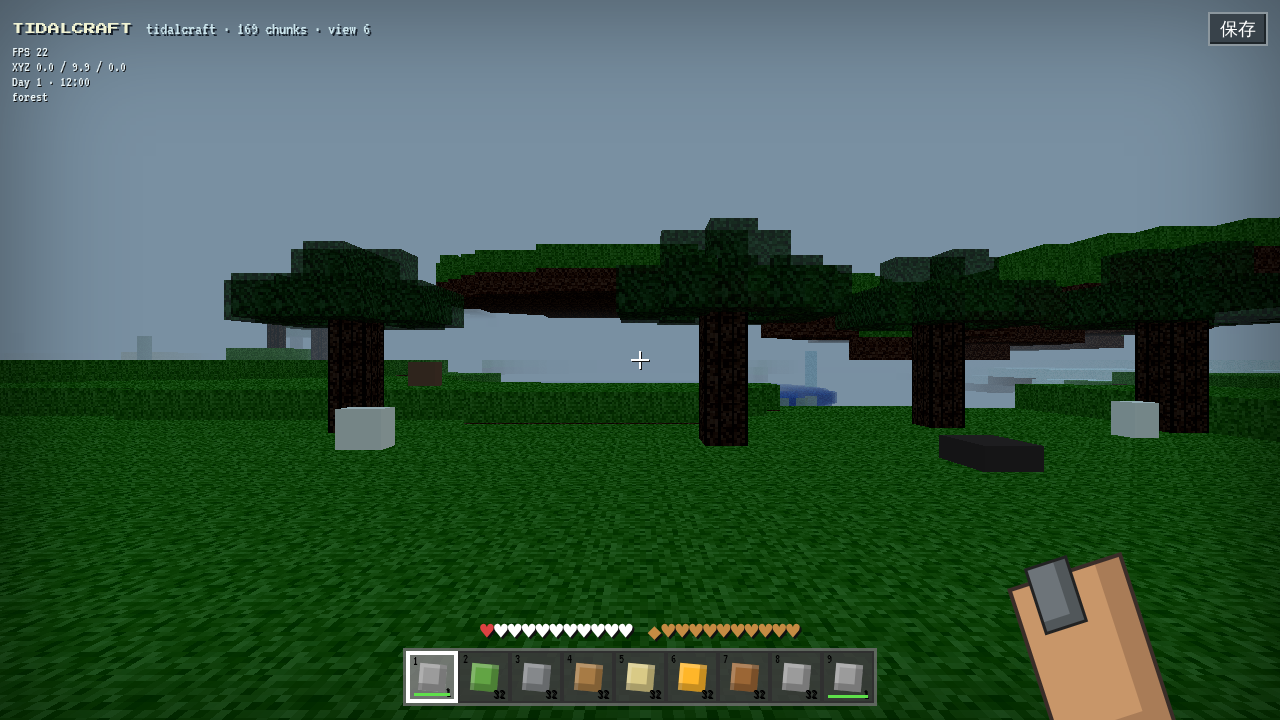
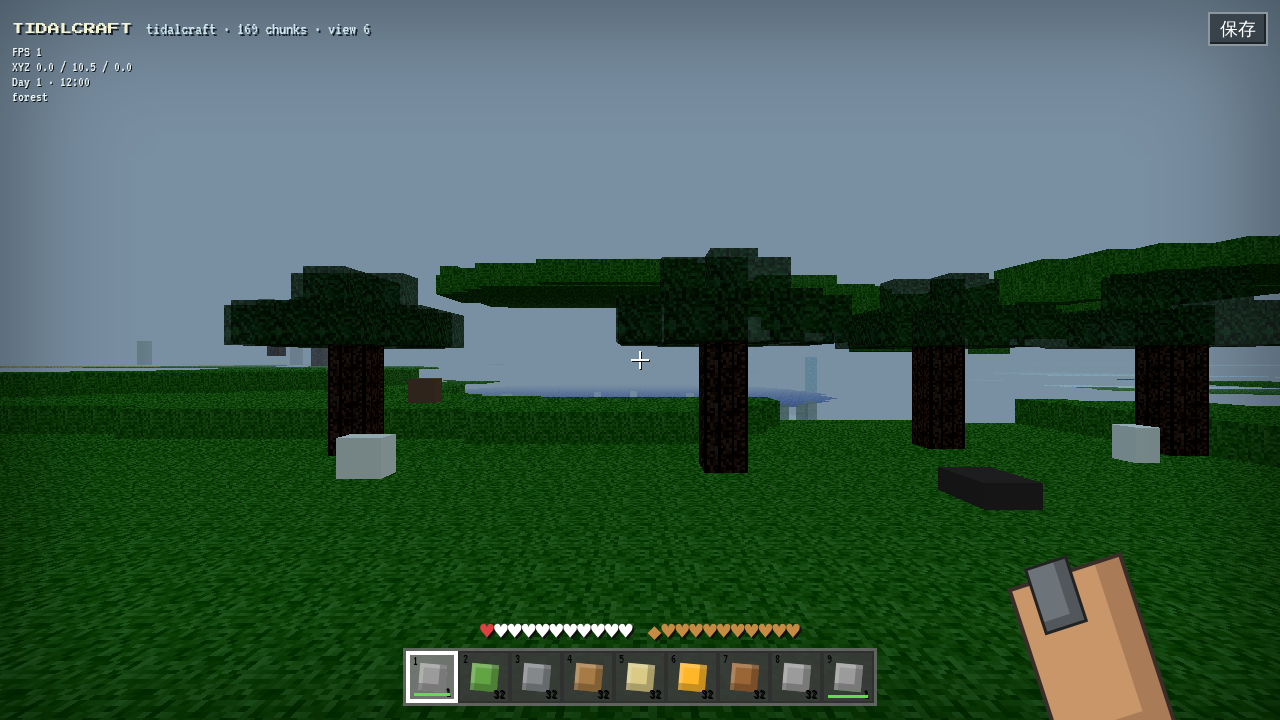
TES-5: verify inventory and persistent world state

diff --git a/src/main.js b/src/main.js
@@ -54,6 +54,10 @@ const dropsGroup = new THREE.Group();
 const projectileGroup = new THREE.Group();
 scene.add(worldGroup, entityGroup, dropsGroup, projectileGroup);
 const boxGeo = new THREE.BoxGeometry(1, 1, 1);
+const topGeo = new THREE.PlaneGeometry(1, 1);
+topGeo.rotateX(-Math.PI / 2);
+const baseGeo = new THREE.PlaneGeometry(224, 224);
+baseGeo.rotateX(-Math.PI / 2);
 const raycaster = new THREE.Raycaster();
 raycaster.far = 6;
 const center = new THREE.Vector2(0, 0);
@@ -84,6 +88,9 @@ let modifications = new Map(),
   chunks = new Set(),
   chunkCenter = "",
   difficulty = "normal";
+let stations = new Map(),
+  restoredEntities = null,
+  carried = null;
 const VIEW_DISTANCE = 6;
 let player = {
   x: 0,
@@ -164,25 +171,79 @@ function buildWorld() {
   chunks.clear();
   const px = Math.floor(player.x / 16),
     pz = Math.floor(player.z / 16),
-    byType = {};
+    byType = {},
+    surfaces = {};
   chunkCenter = `${px},${pz}`;
+  const base = new THREE.Mesh(baseGeo, materials.get("stone"));
+  base.position.set(player.x, -0.49, player.z);
+  worldGroup.add(base);
   for (let cz = pz - VIEW_DISTANCE; cz <= pz + VIEW_DISTANCE; cz++)
     for (let cx = px - VIEW_DISTANCE; cx <= px + VIEW_DISTANCE; cx++) {
       chunks.add(`${cx},${cz}`);
       for (let z = cz * 16; z < cz * 16 + 16; z++)
         for (let x = cx * 16; x < cx * 16 + 16; x++) {
           const h = terrainHeight(x, z, seed);
-          for (let y = Math.max(0, h - 1); y <= h; y++) {
-            const id = actualBlock(x, y, z);
-            if (id) (byType[id] ??= []).push({ x, y, z });
+          let surfaceY = h,
+            id = actualBlock(x, surfaceY, z);
+          while (!id && surfaceY > h - 5) id = actualBlock(x, --surfaceY, z);
+          const nearPlayer =
+            Math.abs(x - player.x) <= 32 && Math.abs(z - player.z) <= 32;
+          if (id) {
+            if (nearPlayer) (byType[id] ??= []).push({ x, y: surfaceY, z });
+            else
+              (surfaces[id] ??= []).push({
+                x,
+                y: surfaceY + 0.501,
+                z,
+                blockY: surfaceY,
+              });
           }
           if (h < SEA_LEVEL) {
-            const id = actualBlock(x, SEA_LEVEL, z);
-            if (id) (byType[id] ??= []).push({ x, y: SEA_LEVEL, z });
+            const water = actualBlock(x, SEA_LEVEL, z);
+            if (water) {
+              if (nearPlayer)
+                (byType[water] ??= []).push({ x, y: SEA_LEVEL, z });
+              else
+                (surfaces[water] ??= []).push({
+                  x,
+                  y: SEA_LEVEL + 0.501,
+                  z,
+                  blockY: SEA_LEVEL,
+                });
+            }
           }
           addFeature(byType, x, h, z);
         }
     }
+  for (const [key, id] of modifications) {
+    if (!id) continue;
+    const [x, y, z] = key.split(",").map(Number);
+    if (
+      Math.abs(Math.floor(x / 16) - px) <= VIEW_DISTANCE &&
+      Math.abs(Math.floor(z / 16) - pz) <= VIEW_DISTANCE
+    )
+      (byType[id] ??= []).push({ x, y, z });
+  }
+  for (const [id, poses] of Object.entries(surfaces)) {
+    const mesh = new THREE.InstancedMesh(
+        topGeo,
+        materials.get(id),
+        poses.length,
+      ),
+      o = new THREE.Object3D();
+    poses.forEach((p, i) => {
+      o.position.set(p.x, p.y, p.z);
+      o.updateMatrix();
+      mesh.setMatrixAt(i, o.matrix);
+    });
+    mesh.userData = {
+      id,
+      poses: poses.map((p) => ({ x: p.x, y: p.blockY, z: p.z })),
+    };
+    mesh.instanceMatrix.needsUpdate = true;
+    worldGroup.add(mesh);
+    blockMeshes.push(mesh);
+  }
   for (const [id, poses] of Object.entries(byType)) {
     const mesh = new THREE.InstancedMesh(
       boxGeo,
@@ -309,6 +370,13 @@ function spawnEntities() {
       phase: i,
       speed: 0.4 + noise2(i, 2, seed) * 0.5,
     });
+  }
+  if (restoredEntities) {
+    restoredEntities.slice(0, entities.length).forEach((saved, i) => {
+      entities[i].mesh.position.set(saved.x, saved.y, saved.z);
+      entities[i].hp = saved.hp;
+    });
+    restoredEntities = null;
   }
 }
 function updateEntities(dt) {
@@ -544,20 +612,61 @@ function updateProjectiles(dt) {
 }
 
 function target() {
-  raycaster.setFromCamera(center, camera);
-  const hits = raycaster.intersectObjects(
-    [...blockMeshes, ...entityGroup.children],
-    false,
-  );
-  return hits[0];
+  const direction = new THREE.Vector3();
+  camera.getWorldDirection(direction);
+  let blockHit = null,
+    previous = null;
+  for (let distance = 0.15; distance <= 6; distance += 0.12) {
+    const point = camera.position.clone().addScaledVector(direction, distance),
+      position = {
+        x: Math.floor(point.x + 0.5),
+        y: Math.floor(point.y + 0.5),
+        z: Math.floor(point.z + 0.5),
+      },
+      id = actualBlock(position.x, position.y, position.z);
+    if (id && !BLOCKS[id]?.liquid) {
+      const normal = previous
+        ? new THREE.Vector3(
+            previous.x - position.x,
+            previous.y - position.y,
+            previous.z - position.z,
+          )
+        : direction.clone().negate().round();
+      blockHit = {
+        object: { userData: { poses: [position] } },
+        instanceId: 0,
+        point,
+        face: { normal },
+        distance,
+      };
+      break;
+    }
+    previous = position;
+  }
+  let entityHit = null;
+  for (const entity of entities) {
+    const relative = entity.mesh.position.clone().sub(camera.position),
+      distance = relative.dot(direction);
+    if (distance <= 0 || distance > 6 || distance >= (blockHit?.distance ?? 7))
+      continue;
+    const perpendicular = relative
+      .clone()
+      .sub(direction.clone().multiplyScalar(distance))
+      .length();
+    if (perpendicular < 0.85 && (!entityHit || distance < entityHit.distance))
+      entityHit = { object: entity.mesh, distance };
+  }
+  return entityHit || blockHit;
 }
 function actPlace() {
   const hit = target();
   if (!hit || entityGroup.children.includes(hit.object)) return;
-  const p = hit.point
-    .clone()
-    .add(hit.face.normal.clone().multiplyScalar(0.51))
-    .floor();
+  const base = hit.object.userData.poses[hit.instanceId],
+    p = new THREE.Vector3(
+      base.x + hit.face.normal.x,
+      base.y + hit.face.normal.y,
+      base.z + hit.face.normal.z,
+    );
   const slot = inventory.slots[selected];
   if (!slot || !BLOCKS[slot.id] || BLOCKS[slot.id].liquid)
     return toast("选择一个可放置方块");
@@ -568,6 +677,8 @@ function actPlace() {
   )
     return toast("此处不能放置");
   modifications.set(keyOf(p.x, p.y, p.z), slot.id);
+  if (slot.id === "chest" || slot.id === "furnace")
+    stations.set(keyOf(p.x, p.y, p.z), { type: slot.id, slots: [] });
   slot.count--;
   if (!slot.count) inventory.slots[selected] = null;
   buildWorld();
@@ -682,6 +793,7 @@ function finishBreak() {
     const { id, pos } = breakState,
       item = inventory.slots[selected]?.id;
     modifications.set(keyOf(pos.x, pos.y, pos.z), null);
+    stations.delete(keyOf(pos.x, pos.y, pos.z));
     if (canHarvest(id, item)) {
       const drop = BLOCKS[id].drop || id;
       spawnDrop(pos.x, pos.y + 0.3, pos.z, drop);
@@ -758,13 +870,12 @@ function renderHud() {
   const s = inventory.slots[selected];
   $("#held").style.background =
     `#${(BLOCKS[s?.id]?.color || 0x6d7479).toString(16).padStart(6, "0")}`;
-  renderInventory();
 }
 function renderInventory() {
   $("#inventory").innerHTML = inventory.slots
     .map(
-      (s) =>
-        `<div class="inv-slot">${s ? `<span>${ALL_DEFINITIONS[s.id]?.name || s.id}</span><b>${s.count}</b>` : ""}</div>`,
+      (s, i) =>
+        `<button class="inv-slot" data-inv="${i}">${s ? `<span>${ALL_DEFINITIONS[s.id]?.name || s.id}</span><b>${s.count}</b>` : ""}</button>`,
     )
     .join("");
   $("#recipes").innerHTML = RECIPES.map(
@@ -781,9 +892,55 @@ function renderInventory() {
         if (inventory.craft(RECIPES[+b.dataset.recipe])) {
           toast(`已制作 ${RECIPES[+b.dataset.recipe].name}`);
           renderHud();
+          renderInventory();
         }
       }),
   );
+  document.querySelectorAll("[data-inv]").forEach((button) => {
+    button.oncontextmenu = (event) => event.preventDefault();
+    button.onmousedown = (event) => {
+      const index = Number(button.dataset.inv),
+        slot = inventory.slots[index];
+      if (event.button === 0) {
+        if (!carried) {
+          carried = slot;
+          inventory.slots[index] = null;
+        } else if (!slot) {
+          inventory.slots[index] = carried;
+          carried = null;
+        } else if (slot.id === carried.id && slot.count < 64) {
+          const moved = Math.min(64 - slot.count, carried.count);
+          slot.count += moved;
+          carried.count -= moved;
+          if (!carried.count) carried = null;
+        } else {
+          inventory.slots[index] = carried;
+          carried = slot;
+        }
+      } else if (event.button === 2) {
+        if (!carried && slot) {
+          const take = Math.ceil(slot.count / 2);
+          carried = { ...slot, count: take };
+          slot.count -= take;
+          if (!slot.count) inventory.slots[index] = null;
+        } else if (carried) {
+          if (!slot) {
+            inventory.slots[index] = { ...carried, count: 1 };
+            carried.count--;
+          } else if (slot.id === carried.id && slot.count < 64) {
+            slot.count++;
+            carried.count--;
+          }
+          if (!carried.count) carried = null;
+        }
+      }
+      renderHud();
+      renderInventory();
+    };
+  });
+  $("#carried").textContent = carried
+    ? `手持：${ALL_DEFINITIONS[carried.id]?.name || carried.id} ×${carried.count}`
+    : "手持：无（左键交换，右键拆分/单放）";
 }
 function updateTarget() {
   const h = target();
@@ -835,6 +992,7 @@ function save() {
       z: e.mesh.position.z,
       hp: e.hp,
     })),
+    stations: [...stations],
   });
   localStorage.setItem("tidalcraft-save-v1", data);
   toast("世界已保存");
@@ -853,6 +1011,8 @@ function load() {
   inventory = d.inventory;
   modifications = new Map(d.modifications || []);
   difficulty = d.difficulty || "normal";
+  stations = new Map(d.stations || []);
+  restoredEntities = d.entities || null;
   $("#seed").value = seedText;
   $("#load-note").textContent = "发现本地存档，将从上次位置继续。";
   return true;
@@ -902,13 +1062,16 @@ function begin(fresh = false) {
   spawnEntities();
   renderHud();
   $("#menu").classList.add("hidden");
+  frameTimes = [];
+  last = performance.now();
   started = true;
   canvas.requestPointerLock();
 }
 
 function animate(now) {
   requestAnimationFrame(animate);
-  const dt = Math.min(0.05, (now - last) / 1000);
+  const frameMs = now - last,
+    dt = Math.min(0.05, frameMs / 1000);
   last = now;
   if (started && !player.dead) {
     updatePlayer(dt);
@@ -926,7 +1089,7 @@ function animate(now) {
       0.25 + 0.55 * daylight,
     );
     scene.fog.color.copy(scene.background);
-    frameTimes.push(dt * 1000);
+    frameTimes.push(frameMs);
     if (frameTimes.length > 300) frameTimes.shift();
     if (now - lastHud > 200) {
       lastHud = now;
@@ -1028,4 +1191,5 @@ load();
 requestAnimationFrame(animate);
 addEventListener("keydown", (e) => {
   if (e.code === "KeyF" && document.pointerLockElement === canvas) actUse();
+  if (e.code === "KeyE") setTimeout(renderInventory);
 });

diff --git a/e2e/smoke.spec.js b/e2e/smoke.spec.js
@@ -3,7 +3,7 @@ import { test, expect } from "@playwright/test";
 test("loads menu and enters a rendered world without console errors", async ({
   page,
 }) => {
-  test.setTimeout(60000);
+  test.setTimeout(90000);
   const errors = [];
   page.on("console", (msg) => {
     if (msg.type() === "error") errors.push(msg.text());
@@ -19,10 +19,25 @@ test("loads menu and enters a rendered world without console errors", async ({
   await page.waitForTimeout(1500);
   await page.screenshot({ path: "docs/evidence/vertical-slice.png" });
   const render = await page.evaluate(() => window.__tidalcraft.snapshot());
+  console.log(`render-sample ${JSON.stringify(render)}`);
   expect(render).toMatchObject({ started: true, chunks: 169, entities: 30 });
   expect(render.instances).toBeGreaterThan(1000);
   expect(render.drawCalls).toBeGreaterThan(0);
   expect(render.triangles).toBeGreaterThan(0);
   expect(render.samples).toBeGreaterThan(10);
+  await page.keyboard.press("KeyE");
+  await expect(page.locator("#panel")).not.toHaveClass(/hidden/);
+  await expect(page.locator("[data-inv]")).toHaveCount(36);
+  await page.locator("[data-inv]").nth(1).click({ button: "right" });
+  await expect(page.locator("#carried")).toContainText("×16");
+  await page.locator("[data-inv]").nth(35).click({ button: "right" });
+  await expect(page.locator("#carried")).toContainText("×15");
+  await page.locator("#close-panel").click();
+  await page.evaluate(() => document.exitPointerLock());
+  await page.getByRole("button", { name: "保存" }).click();
+  await page.reload();
+  await expect(page.locator("#load-note")).toContainText("本地存档");
+  await page.getByRole("button", { name: "进入世界" }).click();
+  await expect(page.locator("#world-label")).toContainText("169 chunks");
   expect(errors).toEqual([]);
 });

diff --git a/index.html b/index.html
@@ -24,6 +24,7 @@
     <section id="panel" class="hidden" aria-label="inventory and crafting">
       <div class="panel-head"><h2>背包与制作</h2><button id="close-panel">×</button></div>
       <div class="panel-columns"><div><h3>物品栏</h3><div id="inventory"></div></div><div><h3>配方册</h3><div id="recipes"></div></div></div>
+      <p id="carried">手持：无（左键交换，右键拆分/单放）</p>
     </section>
     <section id="menu">
       <div class="menu-card">
